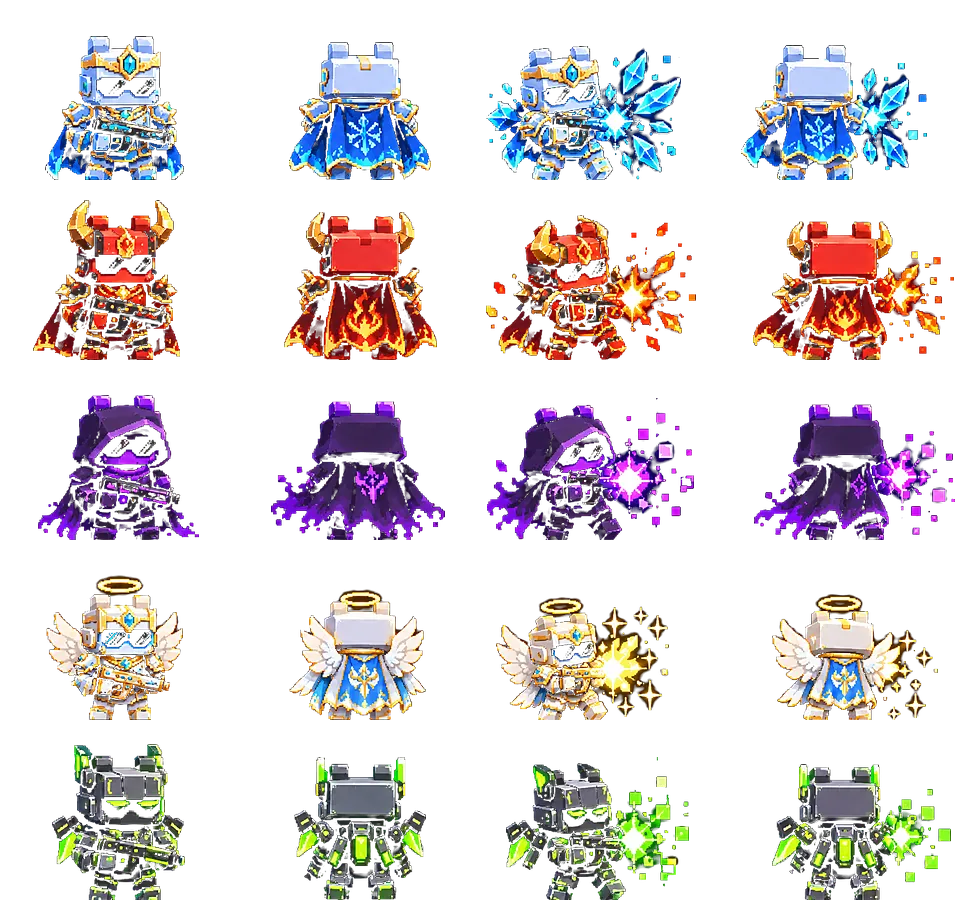
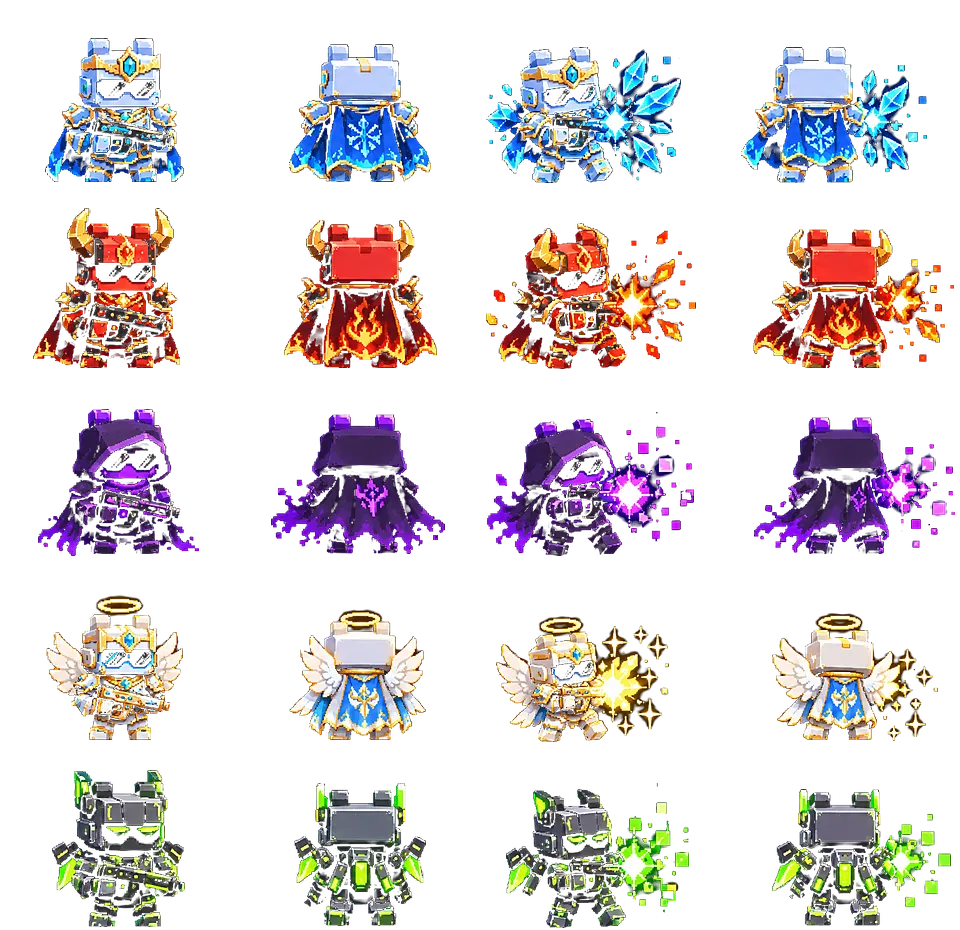
0

diff --git a/src/ui/screens/Shop.jsx b/src/ui/screens/Shop.jsx
@@ -9,6 +9,7 @@
 // [stated] 상품은 아래로 쌓지 않고 **옆으로 넘겨서** 본다 — 한 칸이 커졌기 때문
 import { useState, useEffect, useRef } from 'react';
 import { setInnerBack } from '../../state/back.js';
+import { DEBUG_TRY_SKIN, tryOf, setTry } from '../../state/tryskin.js';
 import { SOCCER_SKINS, SOCCER_SET, PREV_IMG, PREV_FW, PREV_FH, PREV_COLS, PREV_ROWS_N,
   PREV_LINES, GUN_SKINS, GUN_SET, GUN_PREV_IMG, GUN_PREV_FW, GUN_PREV_FH, GUN_PREV_COLS,
   GUN_PREV_ROWS_N, GUN_PREV_LINES, MELEE_SKINS, MELEE_SET, MEL_PREV_IMG, MEL_PREV_FW,
@@ -21,14 +22,15 @@ import { SOCCER_SKINS, SOCCER_SET, PREV_IMG, PREV_FW, PREV_FH, PREV_COLS, PREV_R
 // `chH`/`chW` 는 시트 안 캐릭터의 실제 크기, `pad` 는 양옆에 남길 여백(시트 px)
 const SHEETS = {
   soccer: { img: PREV_IMG, fw: PREV_FW, fh: PREV_FH, cols: PREV_COLS, rows: PREV_ROWS_N,
-            lines: PREV_LINES, chH: 150, chW: 85, pad: 22 },
+            lines: PREV_LINES, chH: 150, chW: 85, chY: 26, pad: 18 },
   gun:    { img: GUN_PREV_IMG, fw: GUN_PREV_FW, fh: GUN_PREV_FH, cols: GUN_PREV_COLS,
-            rows: GUN_PREV_ROWS_N, lines: GUN_PREV_LINES, chH: 144, chW: 139, pad: 22 },
+            rows: GUN_PREV_ROWS_N, lines: GUN_PREV_LINES, chH: 144, chW: 139, chY: 38, pad: 18 },
   melee:  { img: MEL_PREV_IMG, fw: MEL_PREV_FW, fh: MEL_PREV_FH, cols: MEL_PREV_COLS,
-            rows: MEL_PREV_ROWS_N, lines: MEL_PREV_LINES, chH: 170, chW: 165, pad: 22 }
+            rows: MEL_PREV_ROWS_N, lines: MEL_PREV_LINES, chH: 171, chW: 166, chY: 21, pad: 18 }
 };
 // 화면에 그릴 캐릭터 키 (px). 개별 상품과 세트를 각각 하나로 통일한다
-const H_ITEM = 88, H_SET = 74;
+// [stated] **상품이 커서 화면에 안 담긴다** (브라우저 주소창까지 있으면 더 짧다) → 줄인다
+const H_ITEM = 64, H_SET = 52;
 
 const GOODS = {
   soccer: { list: SOCCER_SKINS, set: SOCCER_SET },
@@ -45,10 +47,13 @@ export const SKIN_SUBS = ['gun', 'melee', 'soccer'];
  *  `h` 는 **화면에 그릴 캐릭터 키**. 칸 안 빈 여백(`fw - chW`)은 잘라내 자리를 아낀다 */
 function view(sh, h){
   const k = h / sh.chH;                       // 시트 → 화면 배율
-  const cw = sh.chW + sh.pad;                 // 잘라 쓸 폭 (시트 px)
+  const cw = sh.chW + sh.pad;                 // 잘라 쓸 가로 (시트 px)
+  const ch = sh.chH + sh.pad;                 // [stated] **세로도 잘라 쓴다** — 칸마다 캐릭터
+  // 위 여백이 달라서(축구 26 / 총격전 38 / 칼전 21) 종목마다 박스 높이가 달라 보였다
   return {
-    k, w: Math.round(cw * k), hpx: Math.round(sh.fh * k),
-    off: (sh.fw - cw) / 2,                    // 칸 안에서 잘라내기 시작하는 자리
+    k, w: Math.round(cw * k), hpx: Math.round(ch * k),
+    offX: (sh.fw - cw) / 2,
+    offY: sh.chY - sh.pad / 2,                // 캐릭터 위쪽부터 조금 여유를 두고 자른다
     bg: `${Math.round(sh.fw * sh.cols * k)}px ${Math.round(sh.fh * sh.rows * k)}px`
   };
 }
@@ -58,9 +63,10 @@ function cellStyle(sh, v, row, col){
     backgroundImage: `url(${sh.img})`,
     backgroundSize: v.bg,
     backgroundPosition:
-      `-${Math.round((col * sh.fw + v.off) * v.k)}px -${Math.round(row * sh.fh * v.k)}px`
+      `-${Math.round((col * sh.fw + v.offX) * v.k)}px -${Math.round((row * sh.fh + v.offY) * v.k)}px`
   };
 }
+
 function SkinPreview({ sh, row, h }){
   const v = view(sh, h);
   return (
@@ -84,6 +90,8 @@ export default function Shop({ onBack }){
   const [sub, setSub] = useState('gun');
   // [stated] 몇 번째인지 보이게 **점 다섯 개**, 그리고 **양옆 화살표**로도 넘긴다
   const [at, setAt] = useState(0);
+  // [stated] 디버그: 실제 필드에서 입어볼 수 있게. 출시 전 `DEBUG_TRY_SKIN` 을 false 로
+  const [worn, setWorn] = useState(0);
   const swipe = useRef(null);
   const goTo = i => {
     const el = swipe.current;
@@ -104,6 +112,7 @@ export default function Shop({ onBack }){
   const subLabel = {
     gun: t('shop.sub.gun'), melee: t('shop.sub.melee'), soccer: t('shop.sub.soccer')
   };
+  void worn;   // 눌렀을 때 다시 그리려고 둔다
   const skinName = {
     'skin.no1': t('skin.no1'), 'skin.no2': t('skin.no2'), 'skin.no3': t('skin.no3'),
     'skin.no4': t('skin.no4'), 'skin.no5': t('skin.no5'), 'skin.set': t('skin.set')
@@ -155,7 +164,14 @@ export default function Shop({ onBack }){
                   <div className="shop-card-foot">
                     <span className="nm">{skinName[s2.key]}</span>
                     <span className="pr">{s2.price.toLocaleString()}원</span>
-                    <button className="shop-btn" disabled>{t('shop.soon')}</button>
+                    {DEBUG_TRY_SKIN ? (
+                      <button className={'shop-btn' + (tryOf(sub) === s2.id ? ' on' : '')}
+                              onClick={() => setWorn(setTry(sub, s2.id))}>
+                        {tryOf(sub) === s2.id ? t('shop.wearing') : t('shop.wear')}
+                      </button>
+                    ) : (
+                      <button className="shop-btn" disabled>{t('shop.soon')}</button>
+                    )}
                   </div>
                 </div>
               </div>

diff --git a/test/skinsheet.test.js b/test/skinsheet.test.js
@@ -1,0 +1,52 @@
+// 스킨 시트 규격 검사.
+//
+// [stated] **자산을 다시 만들면 칸 크기가 바뀌는데 코드 상수를 안 고쳐서** 칼전 스킨이
+// 게임에서 엉뚱한 줄을 읽고 있었다(실제 131 / 코드 155, 24px 어긋남).
+// 상점 미리보기는 4px 차이라 눈에 안 띄어 더 늦게 발견됐다.
+// → **그림 파일에서 직접 재서** 코드 상수와 맞는지 본다.
+import fs from 'fs';
+import { assert } from './harness.js';
+import { fileURLToPath } from 'url';
+process.chdir(fileURLToPath(new URL('..', import.meta.url)));
+
+/** webp/png 머리에서 가로x세로만 읽는다 (그림 라이브러리 없이) */
+function sizeOf(path){
+  const b = fs.readFileSync(path);
+  if (b.slice(0, 4).toString('ascii') === 'RIFF' && b.slice(8, 12).toString('ascii') === 'WEBP'){
+    const tag = b.slice(12, 16).toString('ascii');
+    if (tag === 'VP8X') return { w: (b.readUIntLE(24, 3) & 0xffffff) + 1, h: (b.readUIntLE(27, 3) & 0xffffff) + 1 };
+    if (tag === 'VP8L'){
+      const n = b.readUInt32LE(21);
+      return { w: (n & 0x3fff) + 1, h: ((n >> 14) & 0x3fff) + 1 };
+    }
+    if (tag === 'VP8 ') return { w: b.readUInt16LE(26) & 0x3fff, h: b.readUInt16LE(28) & 0x3fff };
+  }
+  if (b.slice(1, 4).toString('ascii') === 'PNG') return { w: b.readUInt32BE(16), h: b.readUInt32BE(20) };
+  return null;
+}
+
+const S = fs.readFileSync('src/game/skins.js', 'utf8');
+const num = k => {
+  const m = S.match(new RegExp(k + '\\s*=\\s*(\\d+)'));
+  return m ? +m[1] : null;
+};
+
+console.log('시트 칸 크기가 코드 상수와 맞는가');
+const CASES = [
+  ['총격전 게임',   'public/assets/gun-skins.webp',    'GUN_FW',      'GUN_FH',      4, 5],
+  ['총격전 미리보기','public/assets/gun-preview.webp',  'GUN_PREV_FW', 'GUN_PREV_FH', 4, 5],
+  ['칼전 게임',     'public/assets/melee-skins.webp',  'MSK_FW',      'MSK_FH',      8, 5],
+  ['칼전 미리보기', 'public/assets/melee-preview.webp','MEL_PREV_FW', 'MEL_PREV_FH', 4, 5],
+  ['축구 게임',     'public/assets/soccer-skins.webp', 'SKIN_FW',     'SKIN_FH',    13, 5],
+  ['축구 미리보기', 'public/assets/skin-preview.webp', 'PREV_FW',     'PREV_FH',     8, 5]
+];
+for (const [nm, path, kw, kh, cols, rows] of CASES){
+  const sz = sizeOf(path);
+  assert(sz, `  ${nm}: 그림을 읽었다`);
+  const w = num(kw), h = num(kh);
+  assert(sz.w === w * cols,
+    `  ${nm} 가로: 그림 ${sz.w} = ${kw} ${w} x ${cols}칸 (${w * cols})`);
+  assert(sz.h === h * rows,
+    `  ${nm} 세로: 그림 ${sz.h} = ${kh} ${h} x ${rows}줄 (${h * rows})`);
+}
+console.log('skinsheet.test.js 통과');

diff --git a/src/styles.css b/src/styles.css
@@ -940,7 +940,7 @@ font:900 15px/1 var(--gf);cursor:pointer;opacity:.55}
    화살표 14px + 좌우 여백 2px 씩 → 한쪽 18px, 양쪽 36px 만 비우면 된다.
    좁은 폰(360px)에서 상자 안쪽 = 360 - 36 - 16 = 308px 로 미리보기 4칸(296)이 넉넉히 들어간다 */
 .shop-card-in{width:calc(100% - 36px);display:flex;flex-direction:column;align-items:center;
-  gap:12px;padding:18px 8px 14px;
+  gap:8px;padding:10px 8px 8px;
   border:1px solid rgba(110,170,220,.42);border-radius:4px;background:rgba(8,16,28,.35)}
 .skin-prev{display:flex;flex-direction:column;align-items:center;gap:2px}
 /* [stated] 칸끼리 너무 붙어 보인다 → 사이를 조금 벌린다.
@@ -968,17 +968,17 @@ font:900 15px/1 var(--gf);cursor:pointer;opacity:.55}
 .shop-arrow:disabled{opacity:.25}
 
 /* [stated] 몇 번째인지 점 다섯 개 */
-.shop-dots{display:flex;justify-content:center;gap:8px;padding:10px 0 4px}
+.shop-dots{display:flex;justify-content:center;gap:8px;padding:6px 0 2px}
 .shop-dots i{width:7px;height:7px;border-radius:50%;background:#3c4a60;cursor:pointer}
 .shop-dots i.on{background:#8fd0ff}
 
 /* [stated] 5종 세트 — 개별 상품 아래 빈 공간을 채운다. 넘기지 않으므로 화살표·점이 없다 */
 /* [stated] 세트 상자를 **조금 더 아래로**, 캐릭터는 **키우고**,
    윗줄 두 명은 **양옆으로 벌린다**(가운데가 비어 보이던 것) */
-.shop-set{width:100%;display:flex;justify-content:center;padding:16px 0 8px}
-.shop-set .shop-card-in{width:calc(100% - 36px);padding:14px 8px 10px;gap:8px}
+.shop-set{width:100%;display:flex;justify-content:center;padding:8px 0 4px}
+.shop-set .shop-card-in{width:calc(100% - 36px);padding:10px 8px 8px;gap:6px}
 .shop-set .skin-line{gap:12px}
 /* 첫 줄은 둘뿐이라 붙어 보인다 → 조금만 벌린다.
    [stated] 64px 은 **너무 넓었다** — 아랫줄 3명과 폭이 안 맞아 보인다 */
-.shop-set .skin-line:first-child{gap:22px}
+.shop-set .skin-line:first-child{gap:18px}
 .shop-empty{text-align:center;color:#7f8ea6;padding:24px 0}

diff --git a/src/state/tryskin.js b/src/state/tryskin.js
@@ -1,0 +1,41 @@
+// 스킨 입어보기 (디버그).
+//
+// [stated] **실제 필드에서 스킨을 입고 놀아볼 수 있게** 해 달라.
+// 아직 상점에서 살 수 없고 소유 기록도 없으므로, 임시로 **기기에만** 저장해 두고
+// **그리기 단계에서만** 갈아입힌다.
+//
+// **시뮬 상태(`s.skin`)는 건드리지 않는다** — 그건 체크섬에 들어가서, 나 혼자 바꾸면
+// 상대와 값이 갈려 판이 깨진다. 그래서 **내 화면의 내 캐릭터만** 바뀌고 상대에게는 안 보인다.
+// 진짜 장착(상대에게도 보이는 것)은 소유·서버 배선을 붙일 때 만든다.
+//
+// **출시 전 `DEBUG_TRY_SKIN` 을 false 로** — 그러면 상점 버튼도 사라진다.
+export const DEBUG_TRY_SKIN = true;
+
+const KEY = 'duel.tryskin';
+let cur = null;
+
+function load(){
+  if (cur) return cur;
+  cur = { gun: 0, melee: 0, soccer: 0 };
+  try {
+    const raw = localStorage.getItem(KEY);
+    if (raw) cur = { ...cur, ...JSON.parse(raw) };
+  } catch { /* 저장소가 막혀 있어도 게임은 돌아야 한다 */ }
+  return cur;
+}
+
+/** 지금 입어보는 중인 스킨 번호 (0 이면 기본) */
+export function tryOf(kind){ return DEBUG_TRY_SKIN ? (load()[kind] | 0) : 0; }
+
+/** 같은 걸 다시 고르면 벗는다 */
+export function setTry(kind, id){
+  const c = load();
+  c[kind] = (c[kind] === id) ? 0 : (id | 0);
+  try { localStorage.setItem(KEY, JSON.stringify(c)); } catch { /* 무시 */ }
+  return c[kind];
+}
+
+/** 지금 판이 어느 종목인지 → 입어볼 스킨 */
+export function tryForArena({ melee, soccer } = {}){
+  return tryOf(soccer ? 'soccer' : (melee ? 'melee' : 'gun'));
+}

diff --git a/src/game/render.js b/src/game/render.js
@@ -11,6 +11,7 @@ import { makeRoller, BALL_R, GOAL_SEQ, GOAL_HOLD, GOAL_SCORE, KICK_FX_TICKS } fr
 import { RS, computeLayout, stickGeom, shieldBtn, tackleBtn } from './layout.js';
 import { resultFor } from './ui-state.js';
 import { GUN_FW, GUN_FH, MSK_FW, MSK_FH } from './skins.js';
+import { tryForArena } from '../state/tryskin.js';
 import { getImage, isReady } from './assets.js';
 import { paletteSlots, throwSlots } from './layout.js';
 import { t, getLang } from '../i18n/index.js';
@@ -1166,9 +1167,13 @@ export function createRenderer(canvas){
       px(b.x/FP, fy((b.y + b.vy * a)/FP, 5), 2, 5, TEAMS[viewOf(s)[b.o]].m);
     // 렌더 위치 배열은 첫 예측이 끝나야 생긴다. 없으면 보정 없이 확정 위치로 그린다
     const rx = cl.rx || [], ry = cl.ry || [];
-    for (let i = 0; i < s.p.length; i++)
+    for (let i = 0; i < s.p.length; i++){
+      // [stated] 디버그 **입어보기**는 내 캐릭터에만, 그리기 단계에서만 적용한다
+      // (시뮬 상태를 바꾸면 체크섬이 갈려 판이 깨진다)
+      const skinOf = (s.skin || [])[i] || (i === SELF.slot ? tryForArena(s) : 0);
       drawPlayer(s.p[i], i, rx[i], ry[i], (s.blind || [])[i] || 0, s.tick, viewOf(s), (s.off || [])[i],
-                 (s.skin || [])[i] || 0);
+                 skinOf);
+    }
     drawMiniHp(s, rx, ry);
     drawMeMark(s, rx, ry);
     drawOffline(s, rx, ry);

diff --git a/src/game/skins.js b/src/game/skins.js
@@ -61,7 +61,7 @@ export const GUN_SET = {
 export const GUN_FW = 80, GUN_FH = 60;
 // 상점 전용 미리보기 (원본에서 크게 다시 뽑았다)
 export const GUN_PREV_IMG = 'assets/gun-preview.webp';
-export const GUN_PREV_FW = 240, GUN_PREV_FH = 180, GUN_PREV_COLS = 4, GUN_PREV_ROWS_N = 5;
+export const GUN_PREV_FW = 240, GUN_PREV_FH = 186, GUN_PREV_COLS = 4, GUN_PREV_ROWS_N = 5;
 // [stated] 미리보기는 네 자세를 **두 줄**로 (앞·뒤 / 피격앞·피격뒤)
 export const GUN_PREV_LINES = [[0, 1], [2, 3]];
 
@@ -82,9 +82,9 @@ export const MELEE_SET = {
   grants: [1, 2, 3, 4, 5],
   lines: [[0, 1], [2, 3, 4]]
 };
-export const MSK_FW = 270, MSK_FH = 108;
+export const MSK_FW = 270, MSK_FH = 131;
 export const MEL_PREV_IMG = 'assets/melee-preview.webp';
 // 미리보기 시트에는 **대기 4자세만** 담았다 (공격은 칼빛이 커서 뺐다) → 4칸
-export const MEL_PREV_FW = 300, MEL_PREV_FH = 190, MEL_PREV_COLS = 4, MEL_PREV_ROWS_N = 5;
+export const MEL_PREV_FW = 300, MEL_PREV_FH = 220, MEL_PREV_COLS = 4, MEL_PREV_ROWS_N = 5;
 // [stated] 4칸을 한 줄에 놓으면 좁은 폰에서 넘친다(418 > 308) → **2칸씩 두 줄**
 export const MEL_PREV_LINES = [[0, 1], [2, 3]];

diff --git a/src/i18n/ko.js b/src/i18n/ko.js
@@ -259,6 +259,8 @@ export default {
   'shop.own': '보유',
   'shop.equip': '장착',
   'shop.equipped': '장착 중',
+  'shop.wear': '입어보기',
+  'shop.wearing': '입는 중',
   'shop.soon': '준비 중',
   'shop.title': '상점',
   'shop.tab.arena': '아레나',

diff --git a/src/i18n/en.js b/src/i18n/en.js
@@ -259,6 +259,8 @@ export default {
   'shop.own': 'Owned',
   'shop.equip': 'Equip',
   'shop.equipped': 'Equipped',
+  'shop.wear': 'Try on',
+  'shop.wearing': 'Wearing',
   'shop.soon': 'Coming soon',
   'shop.title': 'Shop',
   'shop.tab.arena': 'Arena',
